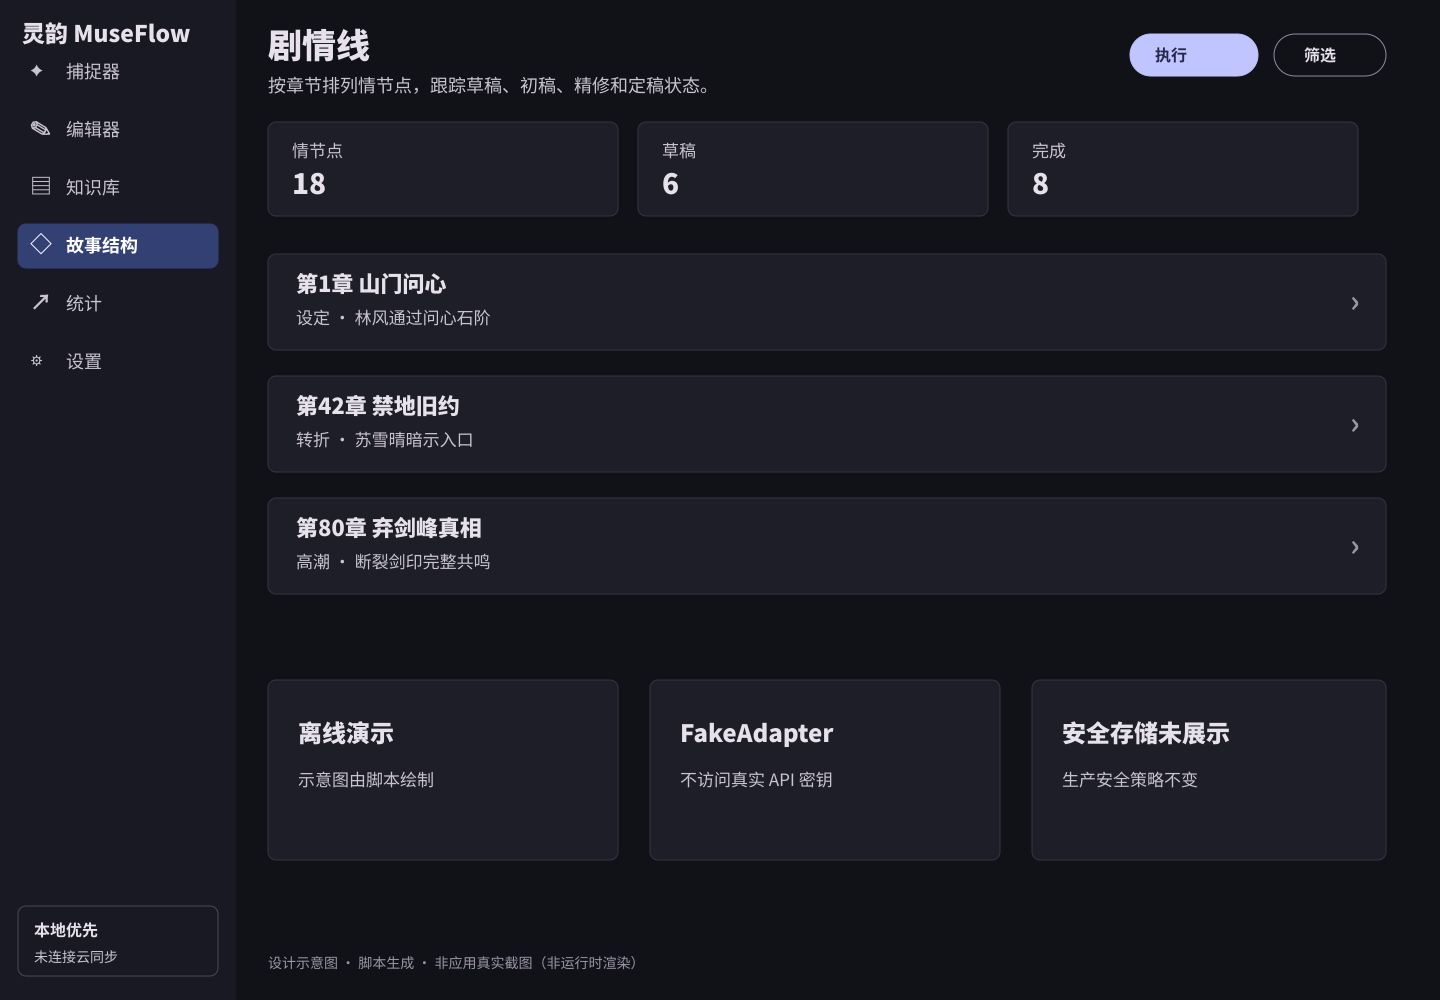
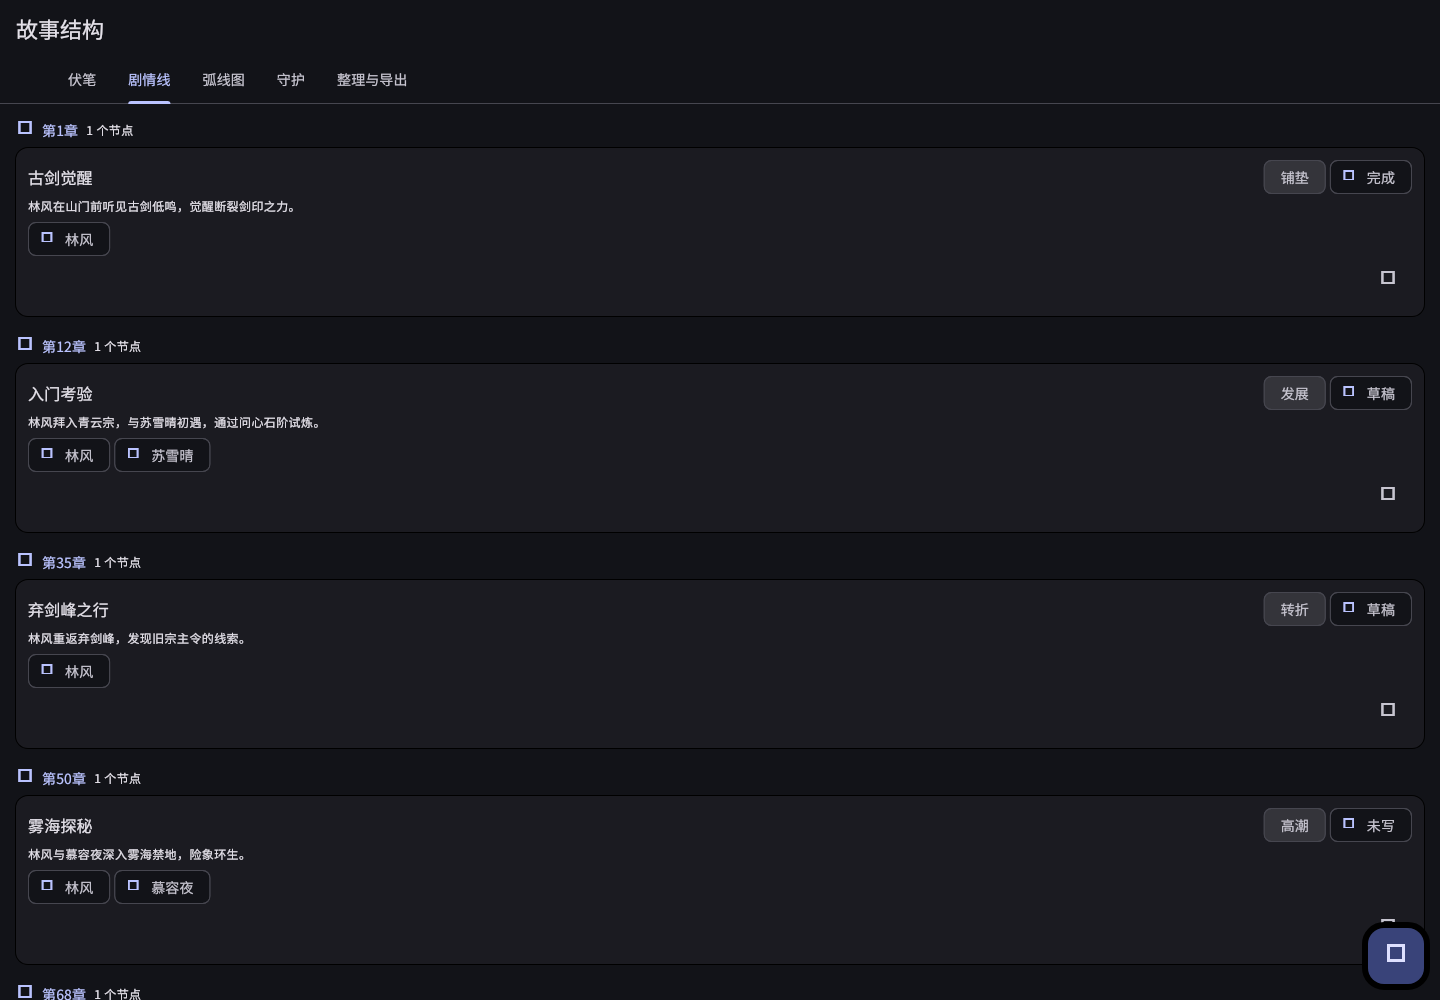
docs(readme): real golden render replaces plot-timeline mockup
README #11 剧情线 → StoryStructurePage tab1 PlotTimeline 真实 widget golden 渲染（替代 SVG mockup）。
override plotNodeNotifierProvider 喂 5 跨章节 plot node（ch1/12/35/50/68 混 setup/development/turn/
climax/resolution）。README.md/en.md disclosure 清单 4 处加入「剧情线(11)/Plot timeline(11)」。

diff --git a/test/readme_screenshots/plot_timeline_test.dart b/test/readme_screenshots/plot_timeline_test.dart
@@ -1,0 +1,178 @@
+/// Real widget screenshot generator for the README plot-timeline image (#11).
+///
+/// Renders the **actual** [StoryStructurePage] on the 剧情线 (plot timeline) tab:
+/// tab 1 of the 5-tab structure page. `PlotTimeline` is a ConsumerWidget that
+/// watches `plotNodeNotifierProvider` and groups plot nodes by chapter into a
+/// ListView (no custom painting / no animation — deterministic). Seeded with 5
+/// plot nodes across chapters, each showing title + role chip + status chip +
+/// summary + involved characters.
+///
+/// `foreshadowingNotifierProvider` is overridden so the initial tab-0 frame is
+/// clean before switching to tab 1.
+///
+/// Shares the bundled universal GB2312 subset `test_assets/noto_sans_sc_subset.ttf`.
+///
+/// Regenerate after changing the page or seed data:
+///   flutter test test/readme_screenshots/plot_timeline_test.dart --update-goldens
+library;
+
+import 'dart:io';
+
+import 'package:flutter/material.dart';
+import 'package:flutter/services.dart';
+import 'package:flutter_riverpod/flutter_riverpod.dart';
+import 'package:flutter_test/flutter_test.dart';
+import 'package:museflow/core/presentation/providers.dart';
+import 'package:museflow/features/story_structure/application/foreshadowing_notifier.dart';
+import 'package:museflow/features/story_structure/application/plot_node_notifier.dart';
+import 'package:museflow/features/story_structure/domain/foreshadowing_entry.dart';
+import 'package:museflow/features/story_structure/domain/plot_node.dart';
+import 'package:museflow/features/story_structure/presentation/story_structure_page.dart';
+
+void main() {
+  setUpAll(() async {
+    final bytes = await File('test_assets/noto_sans_sc_subset.ttf').readAsBytes();
+    final loader = FontLoader('Noto Sans CJK SC');
+    loader.addFont(Future.value(ByteData.sublistView(bytes)));
+    await loader.load();
+  });
+
+  testWidgets('StoryStructurePage (剧情线) renders a real 1440x1000 screenshot',
+      (tester) async {
+    tester.view.physicalSize = const Size(1440, 1000);
+    tester.view.devicePixelRatio = 1.0;
+    addTearDown(tester.view.resetPhysicalSize);
+    addTearDown(tester.view.resetDevicePixelRatio);
+
+    await tester.pumpWidget(
+      ProviderScope(
+        overrides: [
+          plotNodeNotifierProvider.overrideWith(() => _SeededPlotNodeNotifier()),
+          foreshadowingNotifierProvider.overrideWith(
+            () => _SeededForeshadowingNotifier(),
+          ),
+        ],
+        child: MaterialApp(
+          debugShowCheckedModeBanner: false,
+          theme: _screenshotTheme(),
+          home: const StoryStructurePage(),
+        ),
+      ),
+    );
+    await tester.pumpAndSettle();
+
+    // Switch to tab 1 (剧情线).
+    await tester.tap(find.text('剧情线'));
+    await tester.pumpAndSettle();
+
+    // Prove the seeded plot nodes rendered: the 剧情线 tab + node titles.
+    expect(find.text('剧情线'), findsOneWidget);
+    expect(find.text('古剑觉醒'), findsOneWidget);
+    expect(find.text('雾海探秘'), findsOneWidget);
+
+    await expectLater(
+      find.byType(StoryStructurePage),
+      matchesGoldenFile('../../docs/readme/screenshots/11-plot-timeline.png'),
+    );
+  });
+}
+
+/// Seeded PlotNodeNotifier returning 5 xianxia plot nodes spanning chapters,
+/// with a mix of structural roles and writing statuses (to render the role +
+/// status chips truthfully). Bypasses the repository chain.
+class _SeededPlotNodeNotifier extends PlotNodeNotifier {
+  @override
+  Future<List<PlotNode>> build() async {
+    final created = _created;
+    return <PlotNode>[
+      PlotNode(
+        id: 'p1',
+        title: '古剑觉醒',
+        chapter: 1,
+        summary: '林风在山门前听见古剑低鸣，觉醒断裂剑印之力。',
+        involvedCharacterNames: const ['林风'],
+        writingStatus: PlotNodeWritingStatus.complete,
+        structuralRole: PlotNodeStructuralRole.setup,
+        createdAt: created,
+      ),
+      PlotNode(
+        id: 'p2',
+        title: '入门考验',
+        chapter: 12,
+        summary: '林风拜入青云宗，与苏雪晴初遇，通过问心石阶试炼。',
+        involvedCharacterNames: const ['林风', '苏雪晴'],
+        writingStatus: PlotNodeWritingStatus.drafting,
+        structuralRole: PlotNodeStructuralRole.development,
+        createdAt: created,
+      ),
+      PlotNode(
+        id: 'p3',
+        title: '弃剑峰之行',
+        chapter: 35,
+        summary: '林风重返弃剑峰，发现旧宗主令的线索。',
+        involvedCharacterNames: const ['林风'],
+        writingStatus: PlotNodeWritingStatus.drafting,
+        structuralRole: PlotNodeStructuralRole.turn,
+        createdAt: created,
+      ),
+      PlotNode(
+        id: 'p4',
+        title: '雾海探秘',
+        chapter: 50,
+        summary: '林风与慕容夜深入雾海禁地，险象环生。',
+        involvedCharacterNames: const ['林风', '慕容夜'],
+        writingStatus: PlotNodeWritingStatus.notStarted,
+        structuralRole: PlotNodeStructuralRole.climax,
+        createdAt: created,
+      ),
+      PlotNode(
+        id: 'p5',
+        title: '旧约揭晓',
+        chapter: 68,
+        summary: '弃剑峰旧约真相大白，林风直面戒律堂清虚真人。',
+        involvedCharacterNames: const ['林风', '清虚真人'],
+        writingStatus: PlotNodeWritingStatus.needsRevision,
+        structuralRole: PlotNodeStructuralRole.resolution,
+        createdAt: created,
+      ),
+    ];
+  }
+}
+
+/// Seeded ForeshadowingNotifier so the initial tab-0 frame is clean before
+/// switching to tab 1.
+class _SeededForeshadowingNotifier extends ForeshadowingNotifier {
+  @override
+  Future<List<ForeshadowingEntry>> build() async {
+    final created = _created;
+    return <ForeshadowingEntry>[
+      ForeshadowingEntry(
+        id: 'f1',
+        title: '古剑低鸣之谜',
+        mode: ForeshadowingMode.detailed,
+        status: ForeshadowingStatus.planted,
+        plantedChapter: 1,
+        sourceExcerpt: '林风在山门前听见古剑低鸣',
+        createdAt: created,
+      ),
+    ];
+  }
+}
+
+final DateTime _created = DateTime(2026, 6, 1, 9, 30);
+
+ThemeData _screenshotTheme() {
+  final colorScheme = ColorScheme.fromSeed(
+    seedColor: Colors.indigo,
+    brightness: Brightness.dark,
+  );
+  final base = Typography.material2021().white.apply(fontFamily: 'Noto Sans CJK SC');
+  return ThemeData(
+    colorScheme: colorScheme,
+    useMaterial3: true,
+    textTheme: base.apply(
+      bodyColor: colorScheme.onSurface,
+      displayColor: colorScheme.onSurface,
+    ),
+  );
+}

diff --git a/README.en.md b/README.en.md
@@ -36,7 +36,7 @@ The Chinese name, 灵韵, means the spirit and rhythm of inspiration. MuseFlow c
 
 ## User Journey & UI Mockups
 
-The images below illustrate each feature module. The **Manuscript library** (1st image), the **Capture inbox** (2nd image), the **Character cards** (6th image), the **World settings** (7th image), the **Skill rules** (9th image), the **Foreshadowing** (10th image), the **Logic guardian** (13th image), the **Finish & export** (14th image), the **Writing stats** (15th image), the **Token audit** (16th image), the **Analysis reports hub** (17th image), the **Report details** (18th image), the **Settings** (19th image), the **AI providers** (20th image) and the **AI phrase filter** (21st image) are real widget renders, deterministically produced by the golden tests under `test/readme_screenshots/` (with a bundled Noto Sans CJK SC subset for cross-platform-consistent Chinese, using offline demo data); the rest are design mockups programmatically drawn by `scripts/generate_readme_screenshots.mjs` (SVG → PNG, not live renders). We follow a xianxia serial author's journey to walk through idea capture, manuscript management, chapter writing, knowledge management, structure tracking, analytics, and model configuration. All images use offline demo data and never read real API keys; real screenshots are being migrated page-by-page from mockups via golden tests.
+The images below illustrate each feature module. The **Manuscript library** (1st image), the **Capture inbox** (2nd image), the **Character cards** (6th image), the **World settings** (7th image), the **Skill rules** (9th image), the **Foreshadowing** (10th image), the **Plot timeline** (11th image), the **Logic guardian** (13th image), the **Finish & export** (14th image), the **Writing stats** (15th image), the **Token audit** (16th image), the **Analysis reports hub** (17th image), the **Report details** (18th image), the **Settings** (19th image), the **AI providers** (20th image) and the **AI phrase filter** (21st image) are real widget renders, deterministically produced by the golden tests under `test/readme_screenshots/` (with a bundled Noto Sans CJK SC subset for cross-platform-consistent Chinese, using offline demo data); the rest are design mockups programmatically drawn by `scripts/generate_readme_screenshots.mjs` (SVG → PNG, not live renders). We follow a xianxia serial author's journey to walk through idea capture, manuscript management, chapter writing, knowledge management, structure tracking, analytics, and model configuration. All images use offline demo data and never read real API keys; real screenshots are being migrated page-by-page from mockups via golden tests.
 
 ### 1. Manage Multiple Works
 
@@ -167,7 +167,7 @@ flutter test
 flutter build web --release
 ```
 
-This README's showcase material: the **Manuscript library** (01), the **Capture inbox** (02), the **Character cards** (06), the **World settings** (07), the **Skill rules** (09), the **Foreshadowing** (10), the **Logic guardian** (13), the **Finish & export** (14), the **Writing stats** (15), the **Token audit** (16), the **Analysis reports hub** (17), the **Report details** (18), the **Settings** (19), the **AI providers** (20) and the **AI phrase filter** (21) are real widget renders (generated by golden tests), the rest are design mockups drawn by `scripts/generate_readme_screenshots.mjs` (SVG → PNG). All use offline demo data with no real API keys; real screenshots are being migrated page-by-page from mockups via golden tests.
+This README's showcase material: the **Manuscript library** (01), the **Capture inbox** (02), the **Character cards** (06), the **World settings** (07), the **Skill rules** (09), the **Foreshadowing** (10), the **Plot timeline** (11), the **Logic guardian** (13), the **Finish & export** (14), the **Writing stats** (15), the **Token audit** (16), the **Analysis reports hub** (17), the **Report details** (18), the **Settings** (19), the **AI providers** (20) and the **AI phrase filter** (21) are real widget renders (generated by golden tests), the rest are design mockups drawn by `scripts/generate_readme_screenshots.mjs` (SVG → PNG). All use offline demo data with no real API keys; real screenshots are being migrated page-by-page from mockups via golden tests.
 
 ## v1.3 User Journey Showcase
 